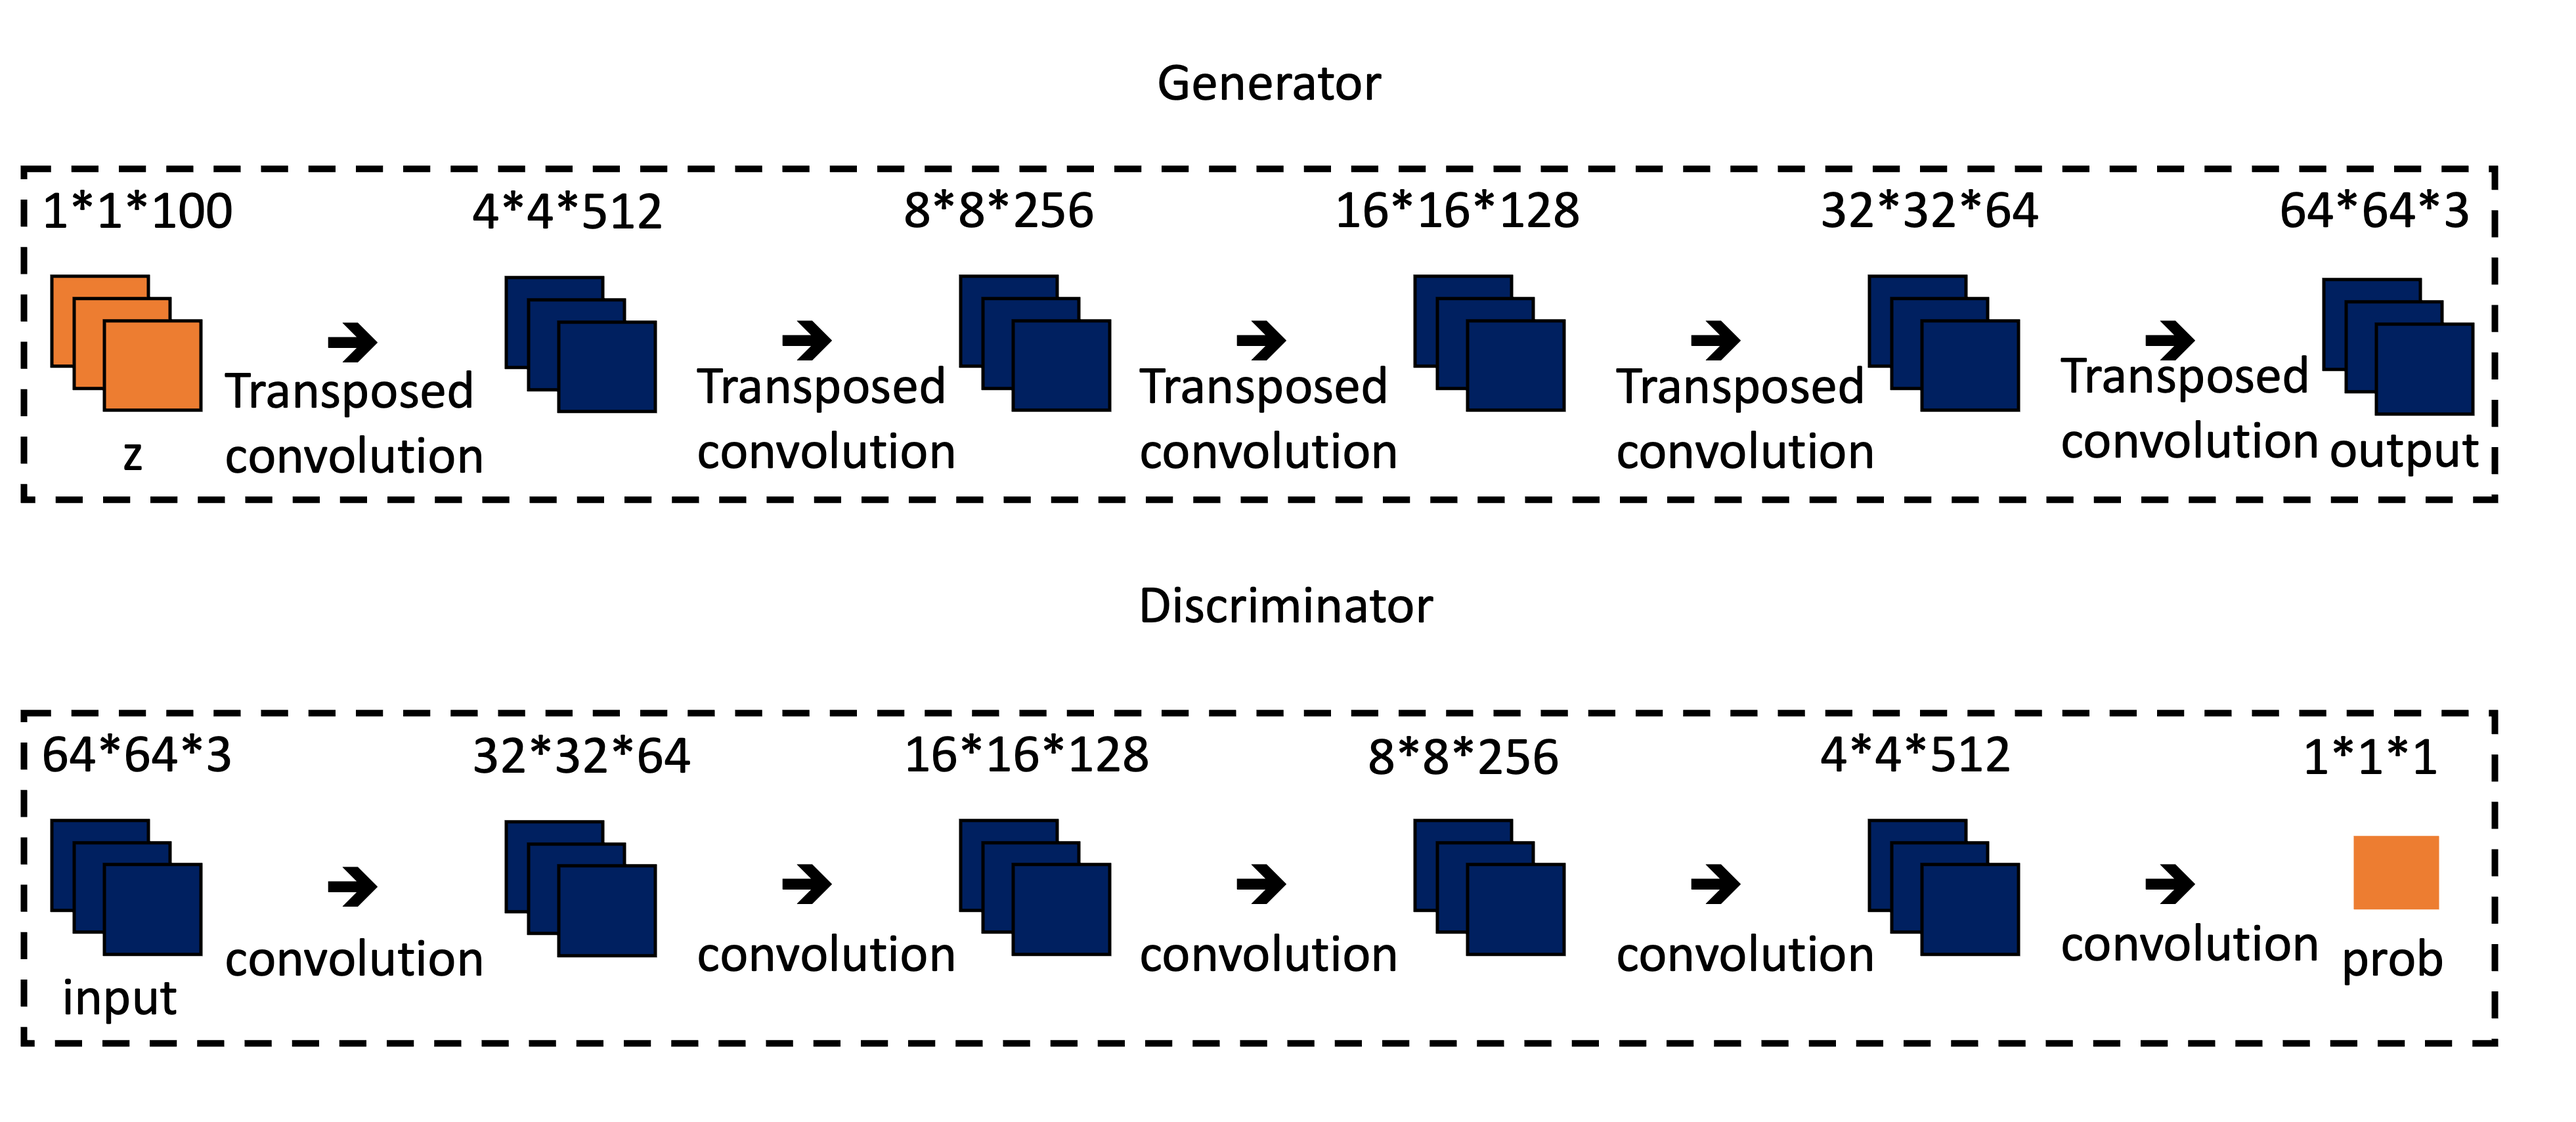
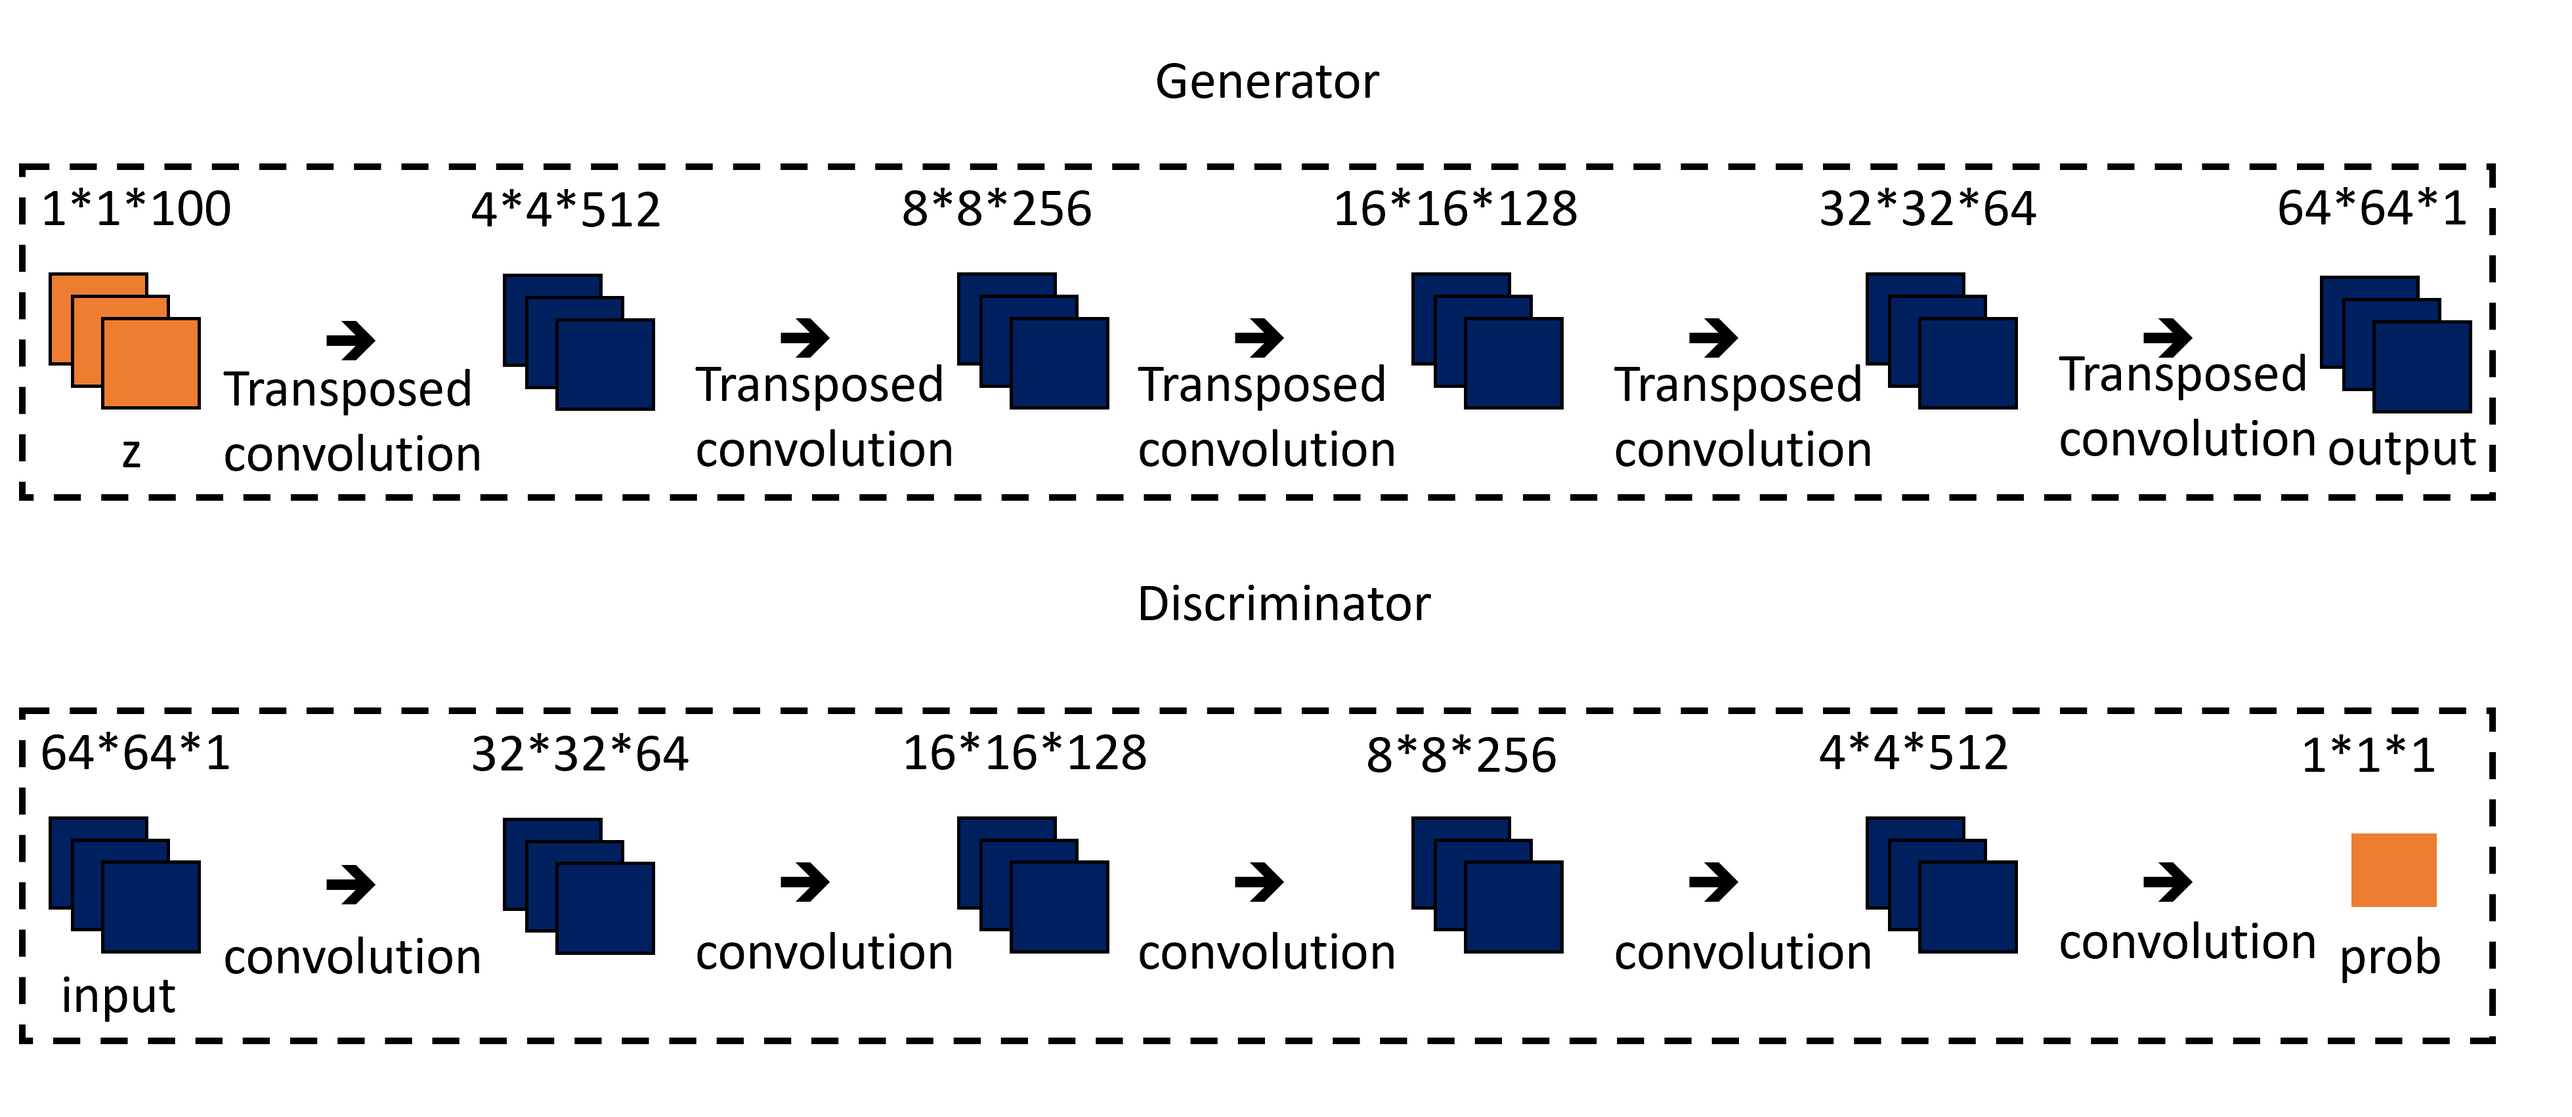
Refactor: Refactor DCGAN

diff --git a/src/models/DCGAN.py b/src/models/DCGAN.py
@@ -9,8 +9,8 @@ class DCGAN(nn.Module):
     deep convolutional generative adversarial networks. arXiv preprint arXiv:1511.06434.) implementation.
 
     Parameters:
-        Generator (`nn.Module`): The Generator of GAN.
-        Discriminator (`nn.Module`): The Discriminator of GAN.
+        Generator (`nn.Module`): The Generator of DCGAN.
+        Discriminator (`nn.Module`): The Discriminator of DCGAN.
     """
 
     def __init__(self, Generator: nn.Module, Discriminator: nn.Module):
@@ -24,8 +24,8 @@ class DCGAN(nn.Module):
     def get_discriminator(self):
         return self.Discriminator
 
-    def forward(self):
-        return self.Generator.forward()
+    def forward(self, batch_size):
+        return self.Generator(batch_size)
 
 
 class Generator(nn.Module):
@@ -35,47 +35,43 @@ class Generator(nn.Module):
 
     Parameters:
         z_dim (`int`, *optional*, default to `100`): The size of noise as a input.
+        channels (`int`, *optional*, default to `3`): The channel of a input.
+        device (`str`, *optional*, default to `cpu`): one of ['cpu', 'cuda', 'mps'].
     """
 
     def __init__(
         self,
         z_dim: int = 100,
-        batch_size: int = 64,
         channels: int = 3,
-        height: int = 32,
-        width: int = 32,
         device: str = None,
     ):
         super().__init__()
         self.z_dim = z_dim
-        self.batch_size = batch_size
         self.channels = channels
-        self.height = height
-        self.width = width
         self.device = device
 
         conv_net = [
             nn.ConvTranspose2d(
                 self.z_dim, 64 * 8, 4, 1, 0, bias=False
-            ),  # (B, 64*8, 2, 2)
+            ),  # (B, 64*8, 4, 4)
             nn.BatchNorm2d(64 * 8),
             nn.ReLU(True),
             # -----------------------------
-            nn.ConvTranspose2d(64 * 8, 64 * 4, 4, 2, 1, bias=False),  # (B, 64*4, 4, 4)
+            nn.ConvTranspose2d(64 * 8, 64 * 4, 4, 2, 1, bias=False),  # (B, 64*4, 8, 8)
             nn.BatchNorm2d(64 * 4),
             nn.ReLU(True),
             # -----------------------------
-            nn.ConvTranspose2d(64 * 4, 64 * 2, 4, 2, 1, bias=False),  # (B, 64*2, 8, 8)
+            nn.ConvTranspose2d(64 * 4, 64 * 2, 4, 2, 1, bias=False),  # (B, 64*2, 16, 16)
             nn.BatchNorm2d(64 * 2),
             nn.ReLU(True),
             # -----------------------------
-            nn.ConvTranspose2d(64 * 2, 64, 4, 2, 1, bias=False),  # (B, 64, 16, 16)
+            nn.ConvTranspose2d(64 * 2, 64, 4, 2, 1, bias=False),  # (B, 64, 32, 32)
             nn.BatchNorm2d(64),
             nn.ReLU(True),
             # -----------------------------
             nn.ConvTranspose2d(
                 64, self.channels, 4, 2, 1, bias=False
-            ),  # (B, 3, 32, 32)
+            ),  # (B, 3, 64, 64)
             nn.Tanh(),  # last activation layer [-1,1]
         ]
 
@@ -100,15 +96,14 @@ class Generator(nn.Module):
                 m.weight.data.normal_(1.0, 0.02)
                 m.bias.data.fill_(0)
 
-    def sample(self):
-        batch_size = self.batch_size if self.training else 1
+    def sample(self, batch_size):
         z = torch.randn(
             (batch_size, self.z_dim, 1, 1), device=self.device
         )  # (B, 100, 1, 1)
         return z
 
-    def forward(self):
-        z = self.sample()  # sample from noraml dist.
+    def forward(self, batch_size):
+        z = self.sample(batch_size)  # sample from noraml dist.
         output = self.conv_net(z)  # conv forward
 
         return output
@@ -121,30 +116,29 @@ class Discriminator(nn.Module):
 
     Parameters:
         z_dim (`int`, *optional*, default to `100`): The size of noise as a input.
+        channels (`int`, *optional*, default to `3`): The channel of a input.
     """
 
     def __init__(
-        self, batch_size: int = 64, channels: int = 3, height: int = 32, width: int = 32
+        self,
+        channels: int = 3
     ):
         super().__init__()
-        self.batch_size = batch_size
         self.channels = channels
-        self.height = height
-        self.width = width
+
         conv_net = [
-            nn.Conv2d(self.channels, 64, 4, 2, 1, bias=False),  # (B, 64, 16, 16)
-            nn.BatchNorm2d(64),
+            nn.Conv2d(self.channels, 64, 4, 2, 1, bias=False),  # (B, 64, 32, 32)
             nn.LeakyReLU(0.2, inplace=True),
             # -----------------------------
-            nn.Conv2d(64, 64 * 2, 4, 2, 1, bias=False),  # (B, 128, 8, 8)
+            nn.Conv2d(64, 64 * 2, 4, 2, 1, bias=False),  # (B, 128, 16, 16)
             nn.BatchNorm2d(128),
             nn.LeakyReLU(0.2, inplace=True),
             # -----------------------------
-            nn.Conv2d(64 * 2, 64 * 4, 4, 2, 1, bias=False),  # (B, 256, 4, 4)
+            nn.Conv2d(64 * 2, 64 * 4, 4, 2, 1, bias=False),  # (B, 256, 8, 8)
             nn.BatchNorm2d(256),
             nn.LeakyReLU(0.2, inplace=True),
             # -----------------------------
-            nn.Conv2d(64 * 4, 64 * 8, 4, 2, 1, bias=False),  # (B, 512, 2, 2)
+            nn.Conv2d(64 * 4, 64 * 8, 4, 2, 1, bias=False),  # (B, 512, 4, 4)
             nn.BatchNorm2d(512),
             nn.LeakyReLU(0.2, inplace=True),
             # -----------------------------
@@ -175,6 +169,6 @@ class Discriminator(nn.Module):
 
     def forward(self, input):
         features = self.conv_net(input)  # conv forward
-        output = features.view(-1)  # reshape (B, 1, 1, 1) -> (B)
+        output = features.flatten(start_dim=1) # reshape (B, 1, 1, 1) -> (B)
 
         return output

diff --git a/src/inference/inference_DCGAN.py b/src/inference/inference_DCGAN.py
@@ -1,0 +1,74 @@
+import sys
+sys.path.append('src/models')
+from DCGAN import DCGAN, Generator, Discriminator
+
+from pathlib import Path
+import argparse
+import pprint
+import time
+
+import torch
+from torchvision.utils import save_image
+
+def parse_args():
+    parser = argparse.ArgumentParser()
+    parser.add_argument(
+        "-o",
+        "--output",
+        metavar="DIR",
+        type=str,
+        help="Directory path to save data.",
+    )
+    parser.add_argument(
+        "-d",
+        "--device",
+        metavar="NAME",
+        type=str,
+        default='cpu',
+        help="Device used inference.",
+    )
+    parser.add_argument(
+        "-ckpt",
+        "--ckpt_path",
+        metavar="DIR",
+        type=str,
+        help="Directory path has model checkpoint.",
+    )
+    args = parser.parse_args()
+
+    pprint.pprint(vars(args))
+
+    return args
+
+def inference(args):
+    device = args.device
+
+    G = Generator(
+        z_dim=100,
+        channels=1,
+        device=device
+    )
+    
+    D =  Discriminator(
+        channels=1, 
+    )
+
+    model = DCGAN(Generator=G, Discriminator=D).to(device)
+    model.eval()
+
+    checkpoint = torch.load(args.ckpt_path)
+    model.load_state_dict(checkpoint['model'])
+
+    with torch.no_grad():
+        pred = model(1)
+
+    save_path = Path(args.output) / "dcgan_predict.png"
+    save_image(pred, save_path)
+
+
+if __name__ == "__main__":
+    start_time = time.time()
+    args = parse_args()
+    inference(args)
+    end_time = time.time()
+    print(f"{end_time - start_time:.2f} seconds elapsed")

diff --git a/src/data/mnist_datamodule.py b/src/data/mnist_datamodule.py
@@ -1,5 +1,5 @@
 # https://github.com/ashleve/lightning-hydra-template/blob/main/src/data/mnist_datamodule.py
-from typing import Any, Callable, Dict, Optional, Tuple
+from typing import Any, Callable, List, Dict, Optional, Tuple
 
 import torch
 from torch.utils.data import ConcatDataset, DataLoader, Dataset, random_split
@@ -36,6 +36,7 @@ class MNISTDataModule:
         data_dir: str = "data/",
         train_val_test_split: Tuple[int, int, int] = (55_000, 5_000, 10_000),
         batch_size: int = 64,
+        size: List = [28, 28],
         num_workers: int = 0,
         pin_memory: bool = False,
         worker_init_fn: Callable = None,
@@ -53,7 +54,11 @@ class MNISTDataModule:
 
         # data transformations
         self.transforms = transforms.Compose(
-            [transforms.ToTensor(), transforms.Normalize(mean=(0.5,), std=(0.5,))]
+            [
+                transforms.Resize(size),
+                transforms.ToTensor(), 
+                transforms.Normalize(mean=(0.5,), std=(0.5,))
+            ]
         )
 
         self.data_train: Optional[Dataset] = None

diff --git a/docs/DCGAN.md b/docs/DCGAN.md
@@ -1,14 +1,42 @@
 # Deep Convolutional Generative Adversarial Networks (DCGAN)
 
+## Sample Image
+
+||||
+|:--:|:--:|:--:|
+|Image|<img src="./images/VAE_real_best.png" width="300" height=300/>|<img src="./images/DCGAN_fake_best.png" width="300" height=300/>|
+|Description|Real Image|Generated Image (Epoch - 121)|
+
+## Metrics
+
+|Data|Metric|Value|
+|:--:|:--:|:--:|
+|Train|G Loss|100|
+|Train|D Loss|0|
+|Validation|G Loss|0|
+|Validation|D Loss|100|
+|Test|G Loss|0|
+|Test|D Loss|100|
+
 ## train command
 ```bash
-nohup python3 src/train/train_GAN.py experiment=cifar10_DCGAN.yaml &> logs/train_logs/cifar10_DCGAN.log &
+python3 src/train/train_GAN.py experiment=mnist_DCGAN.yaml
 ```
+
+## inference command
+```bash
+python3 src/inference/inference_DCGAN.py -o=result -d=cuda -ckpt=logs/train/runs/2023-11-08_11-23-25/ckpt/model/epoch_127.pth
+```
+
+- o: output이 저장될 폴더 경로
+- d: device (cpu, cuda, mps, ...)
+- ckpt: checkpoint 경로
 
 ## architecture
 
-<img src="./images/DCGAN.png" width="800" height=200/>
+<img src="./images/DCGAN.png" width="600" height=300/>
 
-## sample output
+## Key Point
 
-<img src="./images/DCGAN_cifar10.png" width="300" height=300/>
+- 기존 GAN에서 MLP로 이루어진 층을 Convolution Layer로 변경하며 GAN에 비해 높은 품질의 결과를 얻어냄.
+- 구현 후 실험해봤을때, bias를 True로 준 경우, Model collapse가 발생함. => 여전히 architecture 변경에 민감함.

diff --git a/README.md b/README.md
@@ -40,6 +40,7 @@ python3 src/inference/inference_*.py -o=result -d=cuda -ckpt logs/train/runs/202
 |VAE|[Variational Auto Encoder](docs/VariationalAutoEncoder.md)|
 |GAN|[Generative Adversarial Networks](docs/GAN.md)|
 |cGAN|[Conditional Generative Adversarial Networks](docs/cGAN.md)|
+|DCGAN|[Deep Convolutional Generative Adversarial Networks](docs/DCGAN.md)|
 
 # References
 
